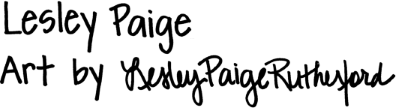
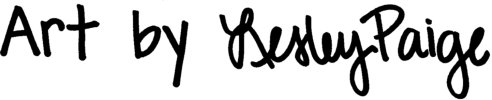
Minor revisions, swapping photo, and revising site to remove last name

diff --git a/admin/editinfo.php b/admin/editinfo.php
@@ -187,7 +187,7 @@
 			<p>
 				<label for="year">Year: </label>
 				<br>
-				<input type="number" name="year" id="year" step="1" value="' . $year . '" min="1975" max="' . date("Y") . '"' . $disabled . '>
+				<input type="number" name="year" id="year" step="1" value="' . $year . '" max="' . date("Y") . '"' . $disabled . '>
 				' . ($errorsyear ? '<span class="error">' . $errorsyear . '</span>' : '') . '
 			</p>
 			<p>
@@ -229,13 +229,13 @@
 			<p>
 				<label for="etsy">etsy.com URL:</label>
 				<br>
-				<input type="text" name="etsy" id="etsy" value="' . $etsy . '" size="40"' . $disabled . '>
+				<input type="text" name="etsy" id="etsy" value="' . $etsy . '" size="100"' . $disabled . '>
 				' . ($errorsetsy ? '<span class="error">' . $errorsetsy . '</span>' : '') . '
 			</p>
 				<p>
 				<label for="fineartamerica">fineartamerica.com URL:</label>
 				<br>
-				<input type="text" name="fineartamerica" id="fineartamerica" value="' . $fineartamerica . '" size="40"' . $disabled . '>
+				<input type="text" name="fineartamerica" id="fineartamerica" value="' . $fineartamerica . '" size="100"' . $disabled . '>
 				' . ($errorsfineartamerica ? '<span class="error">' . $errorsfineartamerica . '</span>' : '') . '
 			</p>';
 			echo recaptcha::submitbutton('artinfosubmit', 'Save', 'submit', false);

diff --git a/header.php b/header.php
@@ -36,7 +36,7 @@ function headerHTML() {
 						<img class="header" src="' . STAMP['html'] . '">
 					</div>
 					<div class="visible-xs" style="display:inline-block;">
-						<img class="header-mobile" src="' . TITLE_SMALL['html'] . '">
+						<img class="header-mobile" src="' . TITLE['html'] . '">
 					</div>
 					<br>
 					<div class="btn-group" role="group" aria-label="..." style="margin-top: 5px">
@@ -50,7 +50,7 @@ function headerHTML() {
 								Bio
 							</span>
 						</a>
-						<a target="_blank" href="mailto:art@lesleypaige.com" type="button" class="btn btn-default" style="background: #EFEAFF; ">
+						<a target="_blank" href="mailto:lesleypaigeart@gmail.com" type="button" class="btn btn-default" style="background: #EFEAFF; ">
 							<span class="buttontext">
 								E-mail
 							</span>

diff --git a/paths.php b/paths.php
@@ -160,8 +160,8 @@ function definepaths() {
 		'html' => IMG['html'] . 'favicon.ico'
 		]);
 	define('PHOTO_FULL', [
-		'sys' => IMG['sys'] . 'photo.jpg',
-		'html' => IMG['html'] . 'photo.jpg'
+		'sys' => IMG['sys'] . 'photo.png',
+		'html' => IMG['html'] . 'photo.png'
 		]);	
 	define('NOT_FOUND', [
 		'sys' => ADMIN['sys'] . 'notfound.jpg',

diff --git a/index.php b/index.php
@@ -64,7 +64,7 @@ echo '
 echo '
 							</ol>
 							<!-- Wrapper for slides -->
-							<div class="carousel-inner" role="listbox">';
+							<div class="carousel-inner" role="listbox" style="height: 375px;">';
 for ($i=0; $i<$n; $i++) {
 	if ($i==0) {
 		echo '

diff --git a/admin/upload.php b/admin/upload.php
@@ -14,6 +14,8 @@
 
 	if ($_SERVER['REQUEST_METHOD'] == "POST") {
 		
+		echo '<script>function setcursor() { document.body.style.cursor = \'progress\'; } setcursor();</script>';
+		
 		$resp = recaptcha::verify('token');
 		
 		$action = $resp->action;
